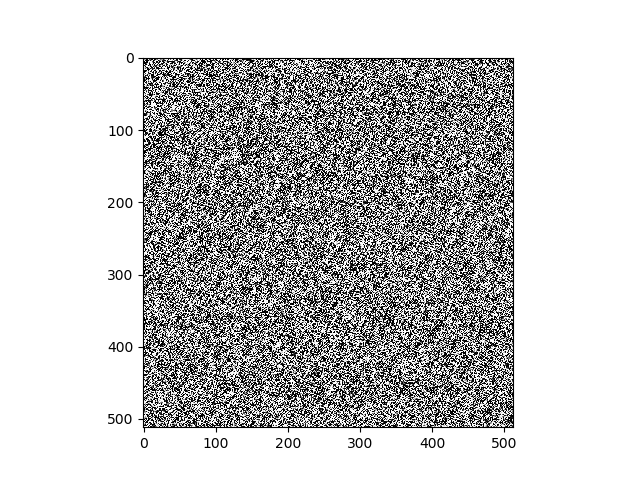
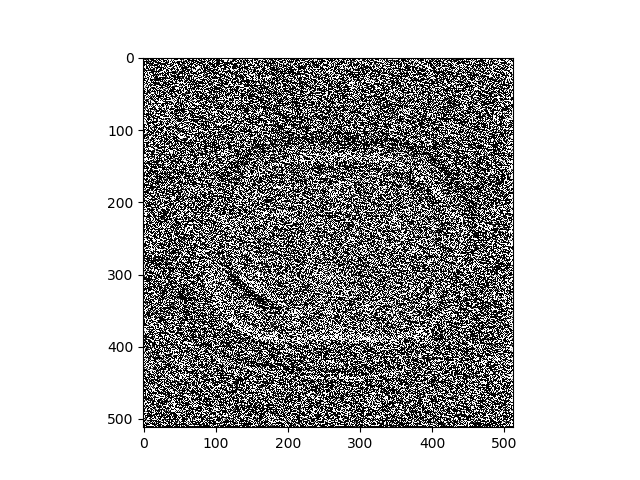
's'

Changed region(s): [[0.2188, 0.125, 0.8125, 0.9062]]

diff --git a/0_Progress/d_again.py b/0_Progress/d_again.py
@@ -41,7 +41,7 @@ for file_index in range(len(lstFilesDCM1)):
     one[file_index,:,:]   = imread(lstFilesDCM1[file_index],mode='F')
 print('===== Done READING DATA ========')
 
-training_data = one[:110,:,:]
+training_data = one[:100,:,:]
 
 # 1.75 Training Hyper Parameters
 num_epoch = 100
@@ -50,76 +50,82 @@ batch_size = 2
 if not os.path.exists('images/'):
     os.makedirs('images/')
 
+def xavier_init(size):
+    in_dim = size[0]
+    xavier_stddev = 1. / tf.sqrt(in_dim / 2.)
+    return tf.random_normal(shape=size, stddev=xavier_stddev)
+
 # 2. Create the Class
 class generator():
     
     def __init__(self):
         
-        self.w1 = tf.Variable(tf.random_normal([7,7,1,3]))
-        self.w2 = tf.Variable(tf.random_normal([5,5,3,5]))
-        self.w3 = tf.Variable(tf.random_normal([3,3,5,7]))
+        self.w1 = tf.Variable(xavier_init([13,13,1,3]))
+        self.w2 = tf.Variable(xavier_init([11,11,3,5]))
+        self.w3 = tf.Variable(xavier_init([9,9,5,7]))
 
-        self.w4 = tf.Variable(tf.random_normal([28672,1000]))
-        self.w5 = tf.Variable(tf.random_normal([1000,28672]))
+        self.w4 = tf.Variable(xavier_init([7,7,7,7]))
+        self.w5 = tf.Variable(xavier_init([5,5,7,5]))
 
-        self.w6 = tf.Variable(tf.random_normal([3,3,5,7]))
-        self.w7 = tf.Variable(tf.random_normal([5,5,3,5]))
-        self.w8 = tf.Variable(tf.random_normal([7,7,1,3]))
+        self.w6 = tf.Variable(xavier_init([3,3,5,3]))
+        self.w7 = tf.Variable(xavier_init([1,1,3,1]))
+        self.w8 = tf.Variable(xavier_init([1,1,1,1]))
+
+    def getw(self):
+        return  [self.w1,self.w2,self.w3,self.w4,self.w5,self.w6,self.w7,self.w8]
 
     def feed_forward(self,input=None):
         
         l1  = tf.nn.conv2d(input,self.w1,strides=[1,1,1,1],padding='SAME')
-        l1M = tf.nn.pool(l1,window_shape=[2,2],strides=[2,2],pooling_type="AVG",padding="VALID")
-        l1A = tf_arctan(l1M) 
+        l1A = tf.atan(l1) 
 
         l2 = tf.nn.conv2d(l1A,self.w2,strides=[1,1,1,1],padding='SAME')
-        l2M = tf.nn.pool(l2,window_shape=[2,2],strides=[2,2],pooling_type="AVG",padding="VALID")
-        l2A = tf_arctan(l2M) 
+        l2A = tf.nn.elu(l2) 
 
         l3 = tf.nn.conv2d(l2A,self.w3,strides=[1,1,1,1],padding='SAME')
-        l3M = tf.nn.pool(l3,window_shape=[2,2],strides=[2,2],pooling_type="AVG",padding="VALID")
-        l3A = tf_arctan(l3M) 
+        l3A = tf.atan(l3) 
 
-        l4Input = tf.reshape(l3A,[batch_size,-1])
-        l4  = tf.matmul(l4Input,self.w4)
-        l4A = tf_ReLU(l4)
+        l4 = tf.nn.conv2d(l3A,self.w4,strides=[1,1,1,1],padding='SAME')
+        l4A = tf.nn.elu(l4)
 
-        l5  = tf.matmul(l4A,self.w5)
-        l5A = tf_arctan(l5)
-        l5Output = tf.reshape(l5A,[2,64,64,7])
+        l5 = tf.nn.conv2d(l4A,self.w5,strides=[1,1,1,1],padding='SAME')
+        l5A = tf.tanh(l5)
 
-        l6  = tf.nn.conv2d_transpose(l5Output,self.w6,output_shape=[2,128,128,5],strides=[1,2,2,1],padding='SAME')
-        l6A = tf_arctan(l6)
+        l6 = tf.nn.conv2d(l5A,self.w6,strides=[1,1,1,1],padding='SAME')
+        l6A = tf.nn.elu(l6)
 
-        l7  = tf.nn.conv2d_transpose(l6A,self.w7,output_shape=[2,256,256,3],strides=[1,2,2,1],padding='SAME')
-        l7A = tf_arctan(l7)
+        l7 = tf.nn.conv2d(l6A,self.w7,strides=[1,1,1,1],padding='SAME')
+        l7A = tf.tanh(l7)
 
-        l8  = tf.nn.conv2d_transpose(l7A,self.w8,output_shape=[2,512,512,1],strides=[1,2,2,1],padding='SAME')
-        l8A = tf_log(l8)
-        return l8A, [self.w1,self.w2,self.w3,self.w4,self.w5,self.w6,self.w7,self.w8]
+        l8 = tf.nn.conv2d(l7A,self.w8,strides=[1,1,1,1],padding='SAME')
+
+        return l8
 
 class discriminator():
     
     def __init__(self):
 
-        self.w1 = tf.Variable(tf.random_normal([7,7,1,1]))
-        self.w2 = tf.Variable(tf.random_normal([5,5,1,1]))
-        self.w3 = tf.Variable(tf.random_normal([3,3,1,1]))
-        self.w4 = tf.Variable(tf.random_normal([4096,1024]))
-        self.w5 = tf.Variable(tf.random_normal([1024,1]))
+        self.w1 = tf.Variable(xavier_init([7,7,1,1]))
+        self.w2 = tf.Variable(xavier_init([5,5,1,1]))
+        self.w3 = tf.Variable(xavier_init([3,3,1,1]))
+        self.w4 = tf.Variable(xavier_init([4096,1024]))
+        self.w5 = tf.Variable(xavier_init([1024,1]))
         
     def feed_forward(self,input=None):
         self.input_real = input
         self.layer1_real = tf.nn.conv2d(input,self.w1,strides=[1,1,1,1],padding='SAME')
         self.layer1Mean_real = tf.nn.pool(self.layer1_real,window_shape=[2,2],strides=[2,2],pooling_type="AVG",padding="VALID")
-        
-        self.layer2_real = tf.nn.conv2d(self.layer1Mean_real,self.w2,strides=[1,1,1,1],padding='SAME')
+        layer1A = tf_ReLU(self.layer1Mean_real)
+
+        self.layer2_real = tf.nn.conv2d(layer1A,self.w2,strides=[1,1,1,1],padding='SAME')
         self.layer2Mean_real = tf.nn.pool(self.layer2_real ,window_shape=[2,2],strides=[2,2],pooling_type="AVG",padding="VALID")
+        layer2A = tf_ReLU(self.layer2Mean_real)
         
-        self.layer3_real = tf.nn.conv2d(self.layer2Mean_real ,self.w3,strides=[1,1,1,1],padding='SAME')
+        self.layer3_real = tf.nn.conv2d(layer2A ,self.w3,strides=[1,1,1,1],padding='SAME')
         self.layer3Mean_real = tf.nn.pool(self.layer3_real ,window_shape=[2,2],strides=[2,2],pooling_type="AVG",padding="VALID")
+        layer3A = tf_ReLU(self.layer3Mean_real)
         
-        self.layer4Input_real = tf.reshape(self.layer3Mean_real ,[batch_size,-1])
+        self.layer4Input_real = tf.reshape(layer3A ,[batch_size,-1])
 
         self.layer4_real = tf.matmul(self.layer4Input_real ,self.w4)
         self.layer4A_real = tf_arctan(self.layer4_real )
@@ -127,25 +133,33 @@ class discriminator():
         self.layer5_real = tf.matmul(self.layer4A_real ,self.w5)
         self.layer5A_real = tf_log(self.layer5_real)
 
-        return self.layer5A_real,[self.w1,self.w2,self.w3,self.w4,self.w5]
+        return self.layer5_real
+
+    def getw(self):
+        return [self.w1,self.w2,self.w3,self.w4,self.w5]
 
 # 2.5 Make the class 
 G = generator()
 D = discriminator()
 
+G_w =G.getw()
+D_w =D.getw()
+
 # 3. Make the Graph
 x_real = tf.placeholder(shape=[None,512,512,1],dtype="float")
 x_fake = tf.placeholder(shape=[None,512,512,1],dtype="float")
 
-layer_g,layer_g_w = G.feed_forward(x_fake)
-layer_D_Fake,layer_D_Fake_w = D.feed_forward(layer_g)
-layer_D_Real,layer_D_Real_w = D.feed_forward(x_real)
+layer_g = G.feed_forward(x_fake)
+layer_D_Fake = D.feed_forward(layer_g)
+layer_D_Real = D.feed_forward(x_real)
 
-cost_D = -1.0 * tf_log(layer_D_Real) + tf_log(1.0-layer_D_Fake)
-auto_dif = tf.train.AdamOptimizer(learning_rate=0.01).minimize(cost_D,var_list=[layer_D_Fake_w,layer_D_Real_w] )
+D_loss_real = tf.reduce_mean(tf.nn.sigmoid_cross_entropy_with_logits(logits=layer_D_Real, labels=tf.ones_like(layer_D_Real)))
+D_loss_fake = tf.reduce_mean(tf.nn.sigmoid_cross_entropy_with_logits(logits=layer_D_Fake, labels=tf.zeros_like(layer_D_Fake)))
+D_loss = D_loss_real + D_loss_fake
+G_loss = tf.reduce_mean(tf.nn.sigmoid_cross_entropy_with_logits(logits=layer_D_Fake, labels=tf.ones_like(layer_D_Fake)))
 
-cost_G = -1.0 * tf_log(layer_D_Fake)
-auto_dif2 = tf.train.RMSPropOptimizer(learning_rate=0.001).minimize(cost_G,var_list=layer_g_w)
+D_solver = tf.train.AdamOptimizer(learning_rate=0.000001).minimize(D_loss, var_list=D_w)
+G_solver = tf.train.AdamOptimizer(learning_rate=0.0001).minimize(G_loss, var_list=G_w)
 
 # 4. Train Via loop
 with tf.Session() as sess:
@@ -163,12 +177,12 @@ with tf.Session() as sess:
             current_image      = float32(np.expand_dims(current_image,axis=3)) 
             current_data_noise = float32(np.expand_dims(current_data_noise,axis=3))
 
-            sess_results1 = sess.run([cost_D,auto_dif],feed_dict={x_real:current_image,x_fake:current_data_noise})
-            sess_results2 = sess.run([cost_G,auto_dif2],feed_dict={x_real:current_image,x_fake:current_data_noise})
+            sess_results1 = sess.run([D_loss,D_solver],feed_dict={x_real:current_image,x_fake:current_data_noise})
+            sess_results2 = sess.run([G_loss,G_solver],feed_dict={x_fake:current_data_noise})
             print("Current Iter: ", iter," Current batch : ",current_batch ," current D cost: ",sess_results1[0].sum()," Current G Cost: ",sess_results2[0].sum() ,end='\r')
 
         # b. Show the Data While Traing
-        if iter % 10 == 0:
+        if iter % 3 == 0:
             current_image = training_data[:2,:,:]
             current_data_noise =  current_image + 0.3 * current_image.max() *np.random.randn(current_image.shape[0],current_image.shape[1],current_image.shape[2])
             current_image      = float32(np.expand_dims(current_image,axis=3)) 
